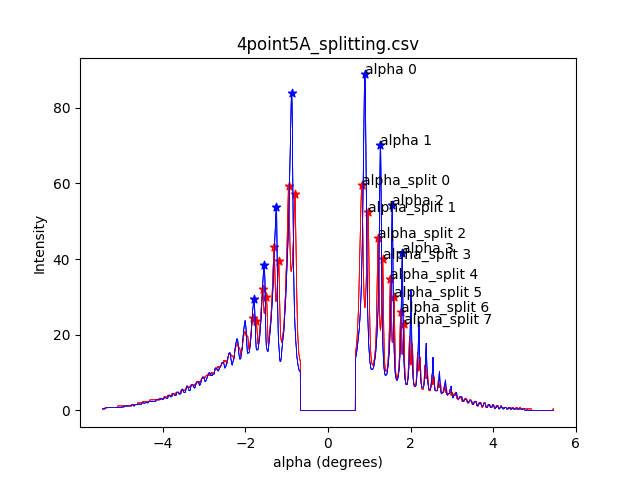
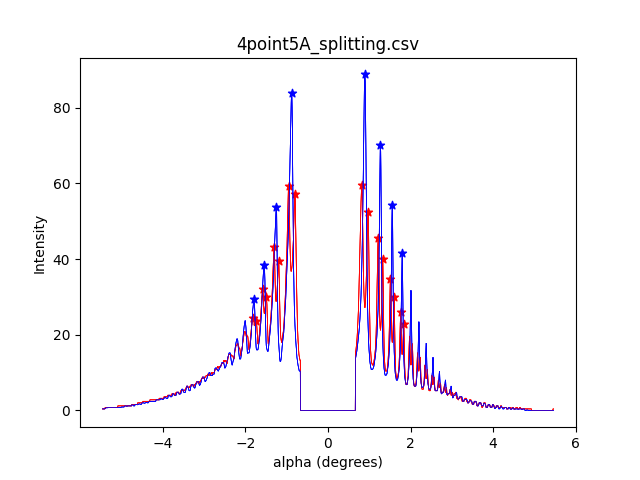
making graphs prettier

Changed region(s): [[0.5625, 0.3438, 0.7812, 0.6875], [0.5938, 0.2812, 0.6875, 0.3125], [0.5625, 0.125, 0.6562, 0.1562]]

diff --git a/Zeeman_Effect.py b/Zeeman_Effect.py
@@ -77,11 +77,11 @@ def get_peaks(unsplit_filename, split_filename, max_peaks, fignum):
         plt.plot(unsplit_df['alpha'], unsplit_df['I'], color='blue', linewidth=0.5)
         plt.savefig(f"figures/Zeeman_Effect_Figures/{unsplit_filename}2.png")
 
-        for n, peak in enumerate(unsplit_peaks):
-            plt.annotate(f"alpha {n}", (unsplit_df.loc[peak, ['alpha']], unsplit_df.loc[peak, ['I']]))
-
-        for n, peak in enumerate(split_peaks):
-            plt.annotate(f"alpha_split {n}", (split_df.loc[peak, ['alpha']], split_df.loc[peak, ['I']]))
+        # for n, peak in enumerate(unsplit_peaks):
+        #     plt.annotate(f"alpha {n}", (unsplit_df.loc[peak, ['alpha']], unsplit_df.loc[peak, ['I']]))
+        #
+        # for n, peak in enumerate(split_peaks):
+        #     plt.annotate(f"alpha_split {n}", (split_df.loc[peak, ['alpha']], split_df.loc[peak, ['I']]))
 
         FWHM = 0.05
 
